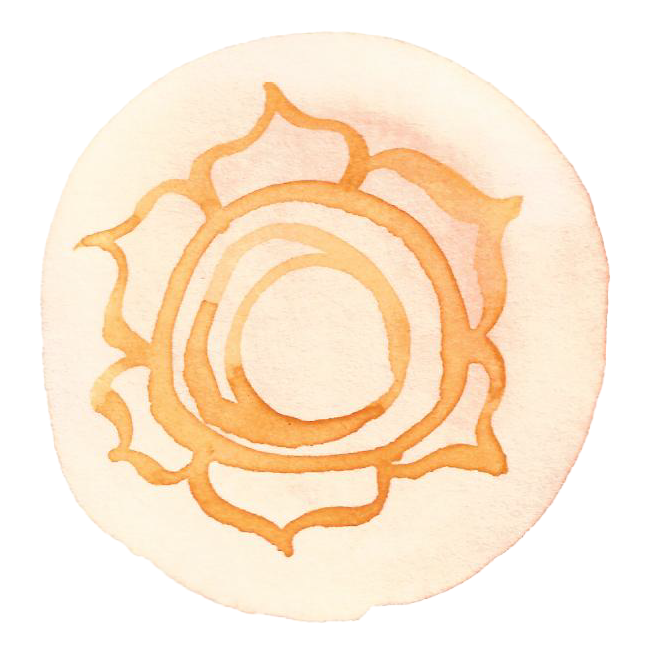
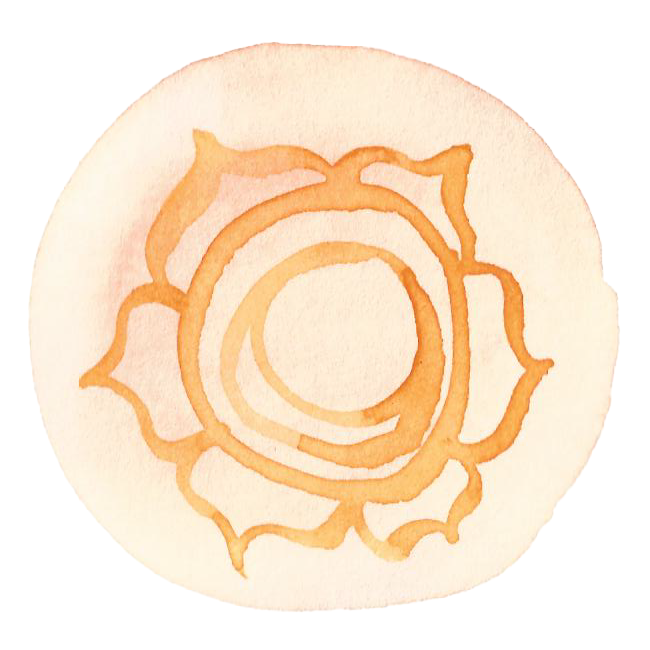
Fire

diff --git a/_posts/2024-10-16-firechakra.md b/_posts/2024-10-16-firechakra.md
@@ -1,0 +1,8 @@
+---
+layout: post
+title: 'Fire Chakra'
+image: /assets/images/Fire_yantra.png
+tags:
+  - fire
+  - chakra
+---
